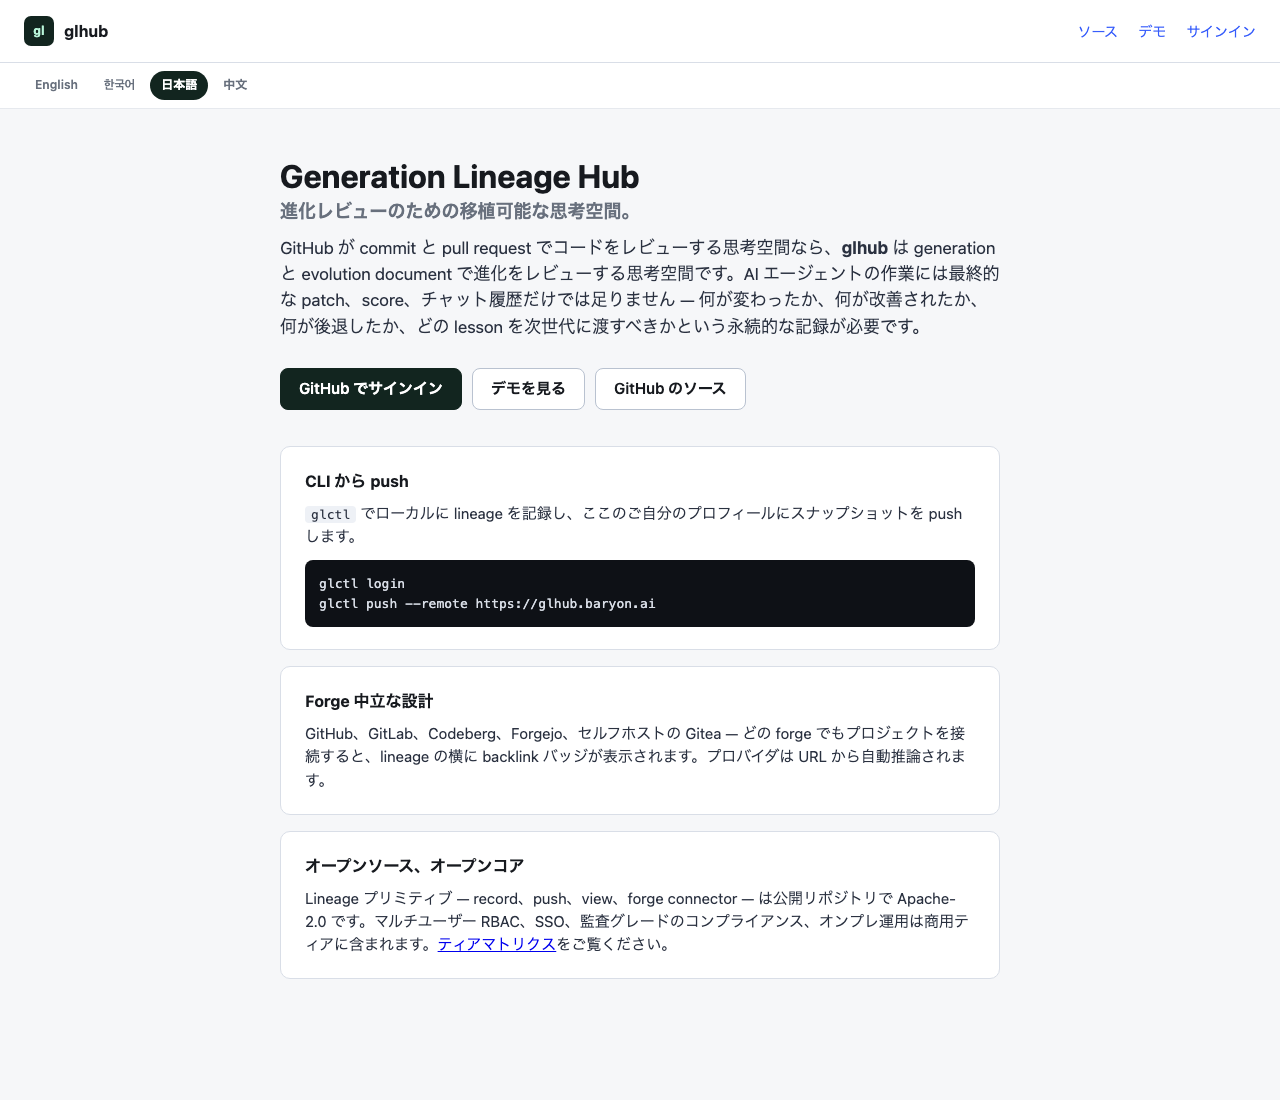
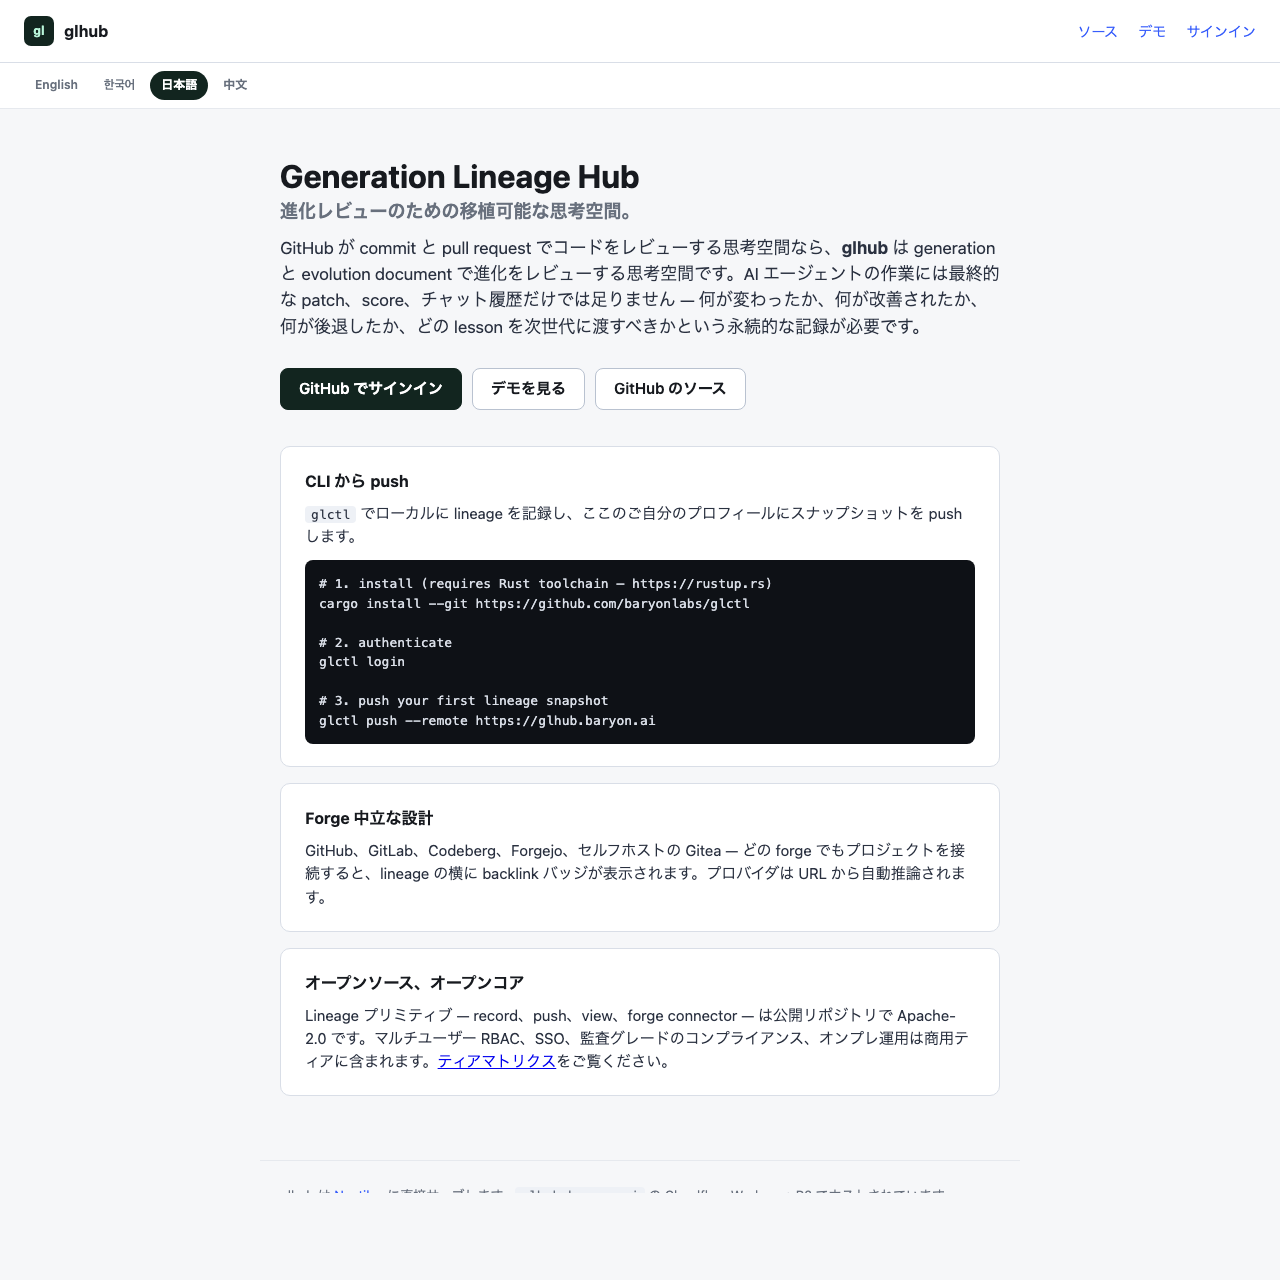
feat(landing): show install step before glctl login/push
비로그인 방문자가 랜딩에서 본 panel 1 (Push from the CLI)이
'glctl login'부터 시작해 *어떻게 glctl을 받는지* 빠지는 문제 수정.
3단계로 명시:

1. install (requires Rust toolchain — https://rustup.rs)
   cargo install --git https://github.com/baryonlabs/glctl
2. authenticate
   glctl login
3. push your first lineage snapshot
   glctl push --remote https://glhub.baryon.ai

코드 블록만 변경 — 4개 언어 panel body 카피는 그대로 (i18n 사전
변경 없음). 코드는 언어 무관이라 재번역 불필요.

스크린샷 4종 재캡처 (landing.png + landing-{ko,ja,zh}.png).

diff --git a/src/core/landing-html.ts b/src/core/landing-html.ts
@@ -235,7 +235,13 @@ export function landingHtml(lang: Lang = "en"): string {
     <div class="panel">
       <h2>${s.panel1Title}</h2>
       <p>${s.panel1Body}</p>
-      <pre>glctl login
+      <pre># 1. install (requires Rust toolchain — https://rustup.rs)
+cargo install --git https://github.com/baryonlabs/glctl
+
+# 2. authenticate
+glctl login
+
+# 3. push your first lineage snapshot
 glctl push --remote https://glhub.baryon.ai</pre>
     </div>
 
